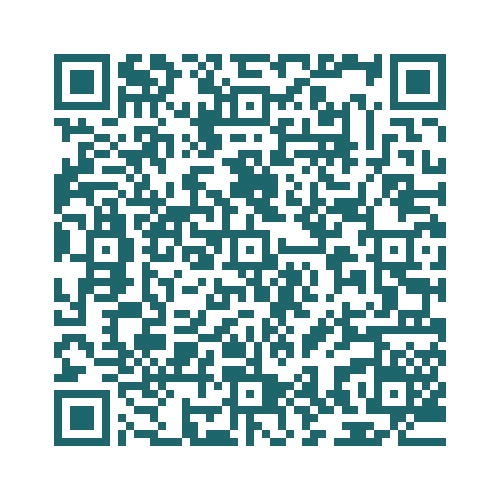
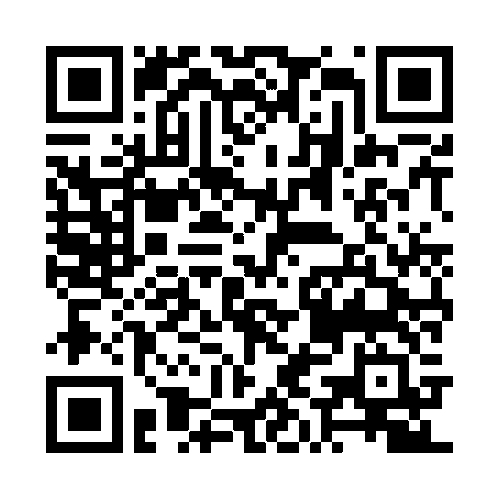
QRcodes in GUI

diff --git a/WitRemote/src/ControlManager.java b/WitRemote/src/ControlManager.java
@@ -136,6 +136,7 @@ public class ControlManager implements Runnable{
 	public void setUpGoals(){
 		//Standaard hoogte van 1m invoeren als targethoogte.
 		//nextGoal = new GoalHeight(800);
+		goals.add(new GoalFindQRCode());
 		gui.setTargetHeight(800);
 		
 		//TODO: commando om QR te lezen op bepaald moment & oude goal negeert
@@ -207,6 +208,8 @@ public class ControlManager implements Runnable{
 		if (isThreadStillAlive(analyserThread) || isThreadStillAlive(qrThread))
 			return;
 		
+		System.out.println(goals.toString()); //TODO debug
+		
 		boolean analyseNextPictureForQR = false;
 		boolean analyseNextPictureForShapes = false;
 		NewShapeRecognition recog = new NewShapeRecognition(realPath, gui, grid, queue);
@@ -239,7 +242,11 @@ public class ControlManager implements Runnable{
 	}
 
 	public void foundQRCode() {
+		System.out.println("-"+goals.toString()); //TODO debug
 		findQRcode = false;
+		addNextGoal();
+		System.out.println("*"+goals.toString()); //TODO debug
+		System.out.println("**"+nextGoal);
 	}
 
 	private void startFindingQRCode() {
@@ -278,6 +285,8 @@ public class ControlManager implements Runnable{
 		}
 		return false;
 	}
+
+	
 
 	private void addNextGoal(){
 		if(!goals.isEmpty()){

diff --git a/WitRemote/src/RabbitRecv.java b/WitRemote/src/RabbitRecv.java
@@ -119,8 +119,10 @@ public class RabbitRecv implements Runnable{
 //					System.out.println("[.] New picture downloaded: " + path+namePicture);
 //					cm.analysePicture(path+namePicture);
 				}
-				if(topics.contains(topic) && !topic.equals("wit.private.recvPicture"))
-					System.out.println("[.] " + topic + ": " + message);
+				
+				//Hoogte receiven afgezet //TODO
+//				if(topics.contains(topic) && !topic.equals("wit.private.recvPicture"))
+//					System.out.println("[.] " + topic + ": " + message);
 			}
 		}
 		catch(IOException e){

diff --git a/WitRemote/src/gui/KirovAirship.java b/WitRemote/src/gui/KirovAirship.java
@@ -516,7 +516,11 @@ public class KirovAirship extends JFrame {
 	 * Zorgt voor de uitbeelding van de geanalyseerde foto in de gui.
 	 */
 	public void updatePhoto(){
-		ImageIcon photo = getImageIcon("src/images/analyse.jpg", photoLabel.getWidth(), photoLabel.getHeight());
+		updatePhoto("src/images/analyse.jpg");
+	}
+	
+	public void updatePhoto(String path){
+		ImageIcon photo = getImageIcon(path, photoLabel.getWidth(), photoLabel.getHeight());
 		photoLabel.setIcon(photo);
 	}
 	

diff --git a/WitRemote/src/GenerateEncryptedQR.java b/WitRemote/src/GenerateEncryptedQR.java
@@ -25,6 +25,18 @@ public class GenerateEncryptedQR {
 			e.printStackTrace();
 		}
 	}
+	
+	public static void main(String[] args) {
+		try {
+			Process tr = Runtime.getRuntime().exec("cmd /c C:/Python27/python.exe encrypt.py");
+			tr.waitFor();
+		} catch (IOException | InterruptedException e) {
+			e.printStackTrace();
+		}
+
+		String text = QRcode.read("encrypted");
+		new GenerateEncryptedQR(text).run();
+	}
 
 
 }

diff --git a/WitRemote/src/QRcode.java b/WitRemote/src/QRcode.java
@@ -96,6 +96,7 @@ public class QRcode implements Runnable {
 		}
 		
 		cm.getGUI().printToConsole(command);
+		cm.getGUI().updatePhoto(imagePath);
 	}
 	
 	
